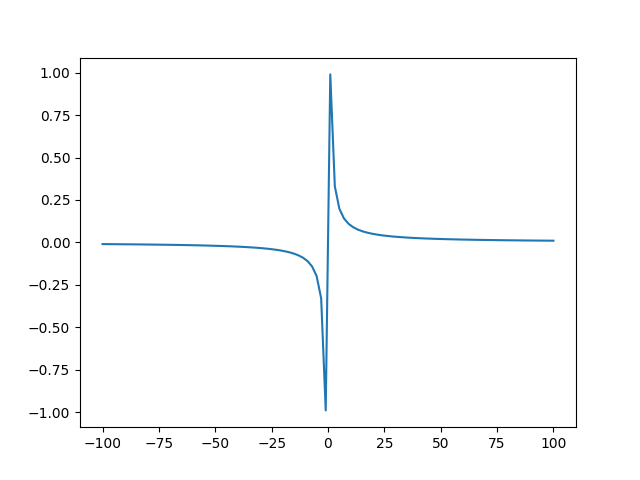
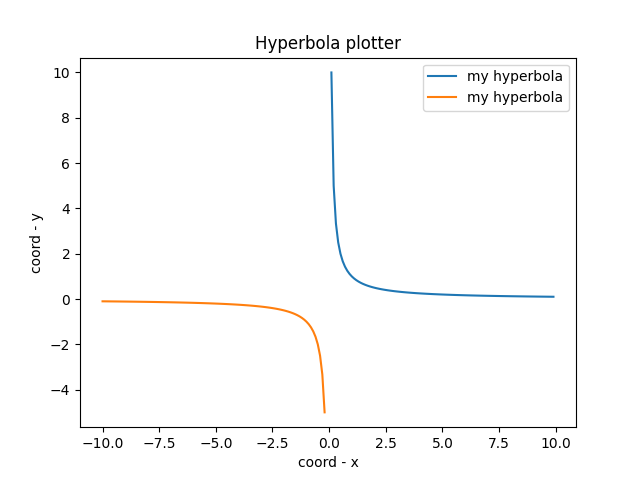
khtyt

diff --git a/task_2.py b/task_2.py
@@ -2,13 +2,22 @@ import matplotlib.pyplot as plt
 import numpy as np
  
 
-def hyperbola_plotter(k=1):
-    x = np.linspace(-100, 100, 100)
-    y = k/x
+def hyperbola_plotter():
+    x = np.arange(0.1 , 10, 0.1 )
+    x1 = np.arange(-10, -0.1, 0.1)
+    y = 1/x
+    y1 = 1/x1
 
-    plt.plot(x, y)
-
+    plt.plot(x, y, label='my hyperbola')
+    plt.plot(x1, y1, label='my hyperbola')
+    plt.xlabel('coord - x')
+    plt.ylabel('coord - y')
+    plt.title('Hyperbola plotter')
+    plt.legend()
+    plt.axis('equal')
+    
     plt.savefig('fig_2.png')
 
 if __name__ =='__main__':
     hyperbola_plotter()
+

diff --git a/task_elipse_3.py b/task_elipse_3.py
@@ -1,0 +1,22 @@
+import matplotlib.pyplot as plt
+import numpy as np
+
+
+def elipse_plotter(x0=0, y0=0, dx=1, dy=1):
+
+    x = np.arange(-2*dx + x0, 2*dx +x0, 0.01)
+    y = np.arange(-2*dy + y0, 2*dy +y0, 0.01)
+
+    X, Y = np.meshgrid(x, y)
+    fxy = ((X - x0)**2)/(dx**2) + ((Y - y0)**2)/(dy**2)
+
+    plt.contour(X, Y, fxy, levels=[1])
+
+    plt.savefig('fig_3.1.png')
+
+if __name__=='__main__':
+    plt.axis('equal')
+    plt.grid()
+    elipse_plotter()
+
+

diff --git a/task_circle_3.py b/task_circle_3.py
@@ -1,0 +1,18 @@
+import matplotlib.pyplot as plt
+import numpy as np
+
+def circle_plotter(R = 10):
+    x = np.arange(-2*R, 2*R, 0.1)
+    y = np.arange(-2*R, 2*R, 0.1)
+
+    X, Y = np.meshgrid(x, y)
+
+    fxy = X**2 + Y**2 - R**2
+
+    plt.contour(X, Y, fxy, levels=[0])
+    plt.axis('equal')
+    plt.savefig('fig_3.png')
+
+if __name__=='__main__':
+    elipse_plotter()
+
